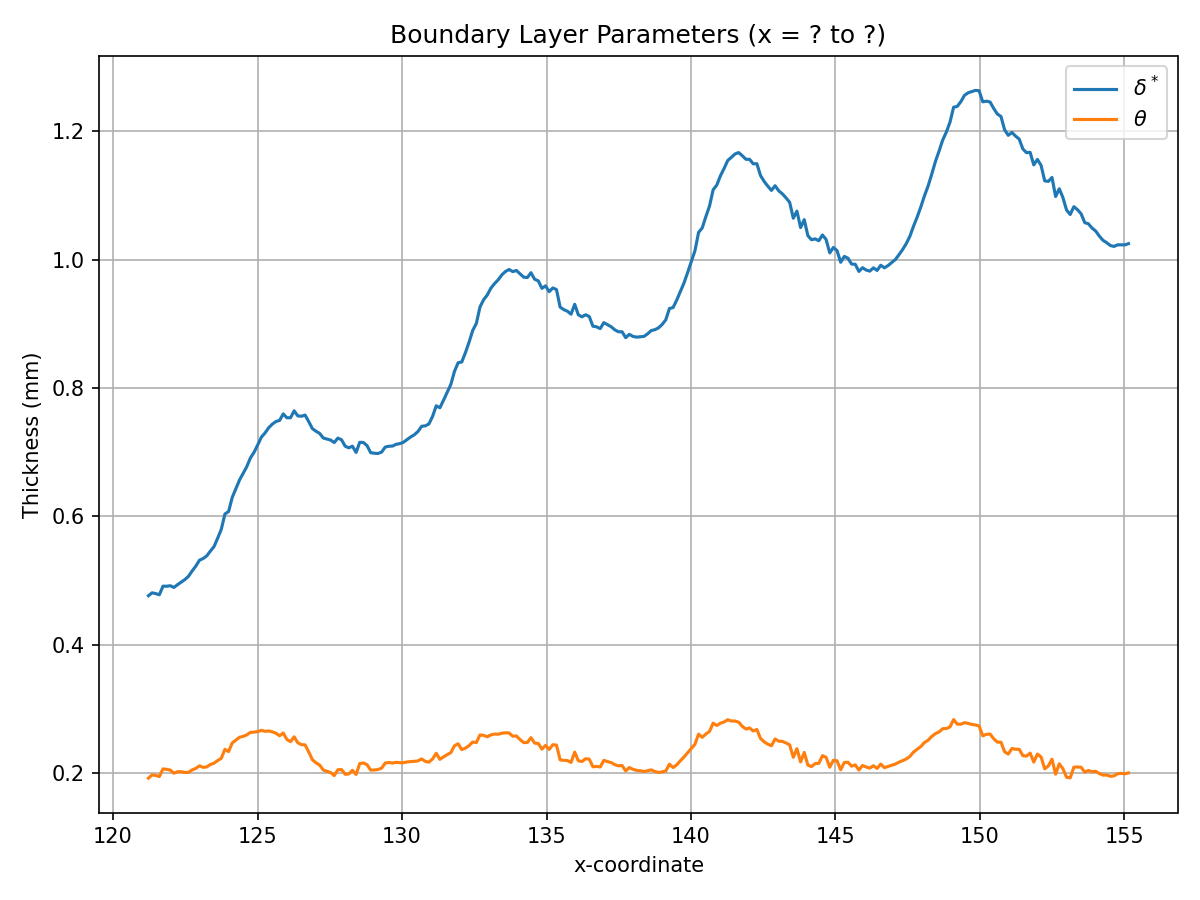
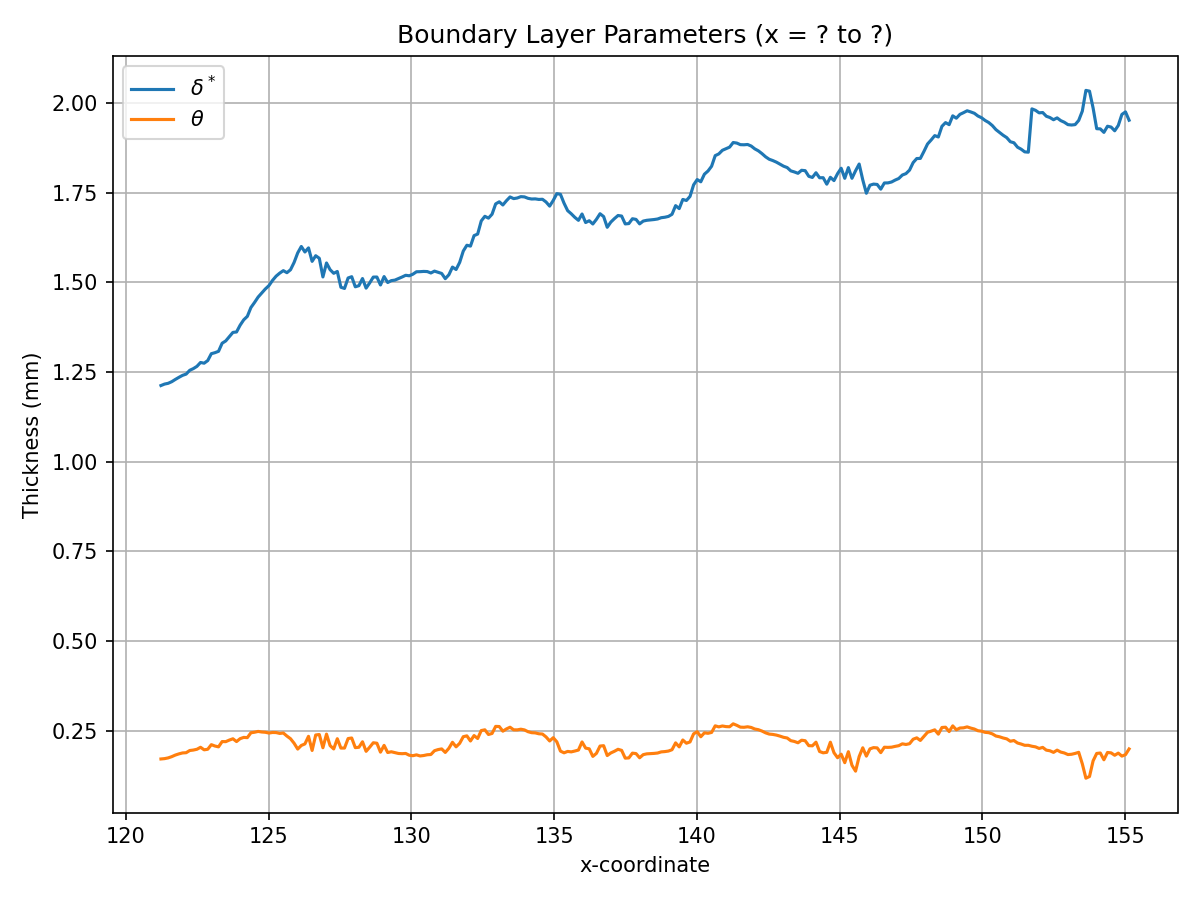
BL edited

diff --git a/Boundary_Layer_Characterization.py b/Boundary_Layer_Characterization.py
@@ -85,9 +85,9 @@ def main():
     # Each file can contain multiple x-stations, so we get arrays of x, delta*, theta
     for i in range(1, 25):
         # Filenames for u and v
-        file_u = os.path.join(data_dir, f"Case_CC_Span_{i}.txt_u.csv")
-        file_v = os.path.join(data_dir, f"Case_CC_Span_{i}.txt_v.csv")
-        file_vort = os.path.join( f"./Vorticity/Case_CC_Span_{i}.txt_vorticity.csv")
+        file_u = os.path.join(data_dir, f"Case_SC_Span_{i}.txt_u.csv")
+        file_v = os.path.join(data_dir, f"Case_SC_Span_{i}.txt_v.csv")
+        file_vort = os.path.join( f"./Vorticity/Case_SC_Span_{i}.txt_vorticity.csv")
         # --- READ THE U-COMPONENT CSV ---
         # We assume the CSV is structured such that:
         #   - row 0: [NaN, x1, x2, x3, ...]
